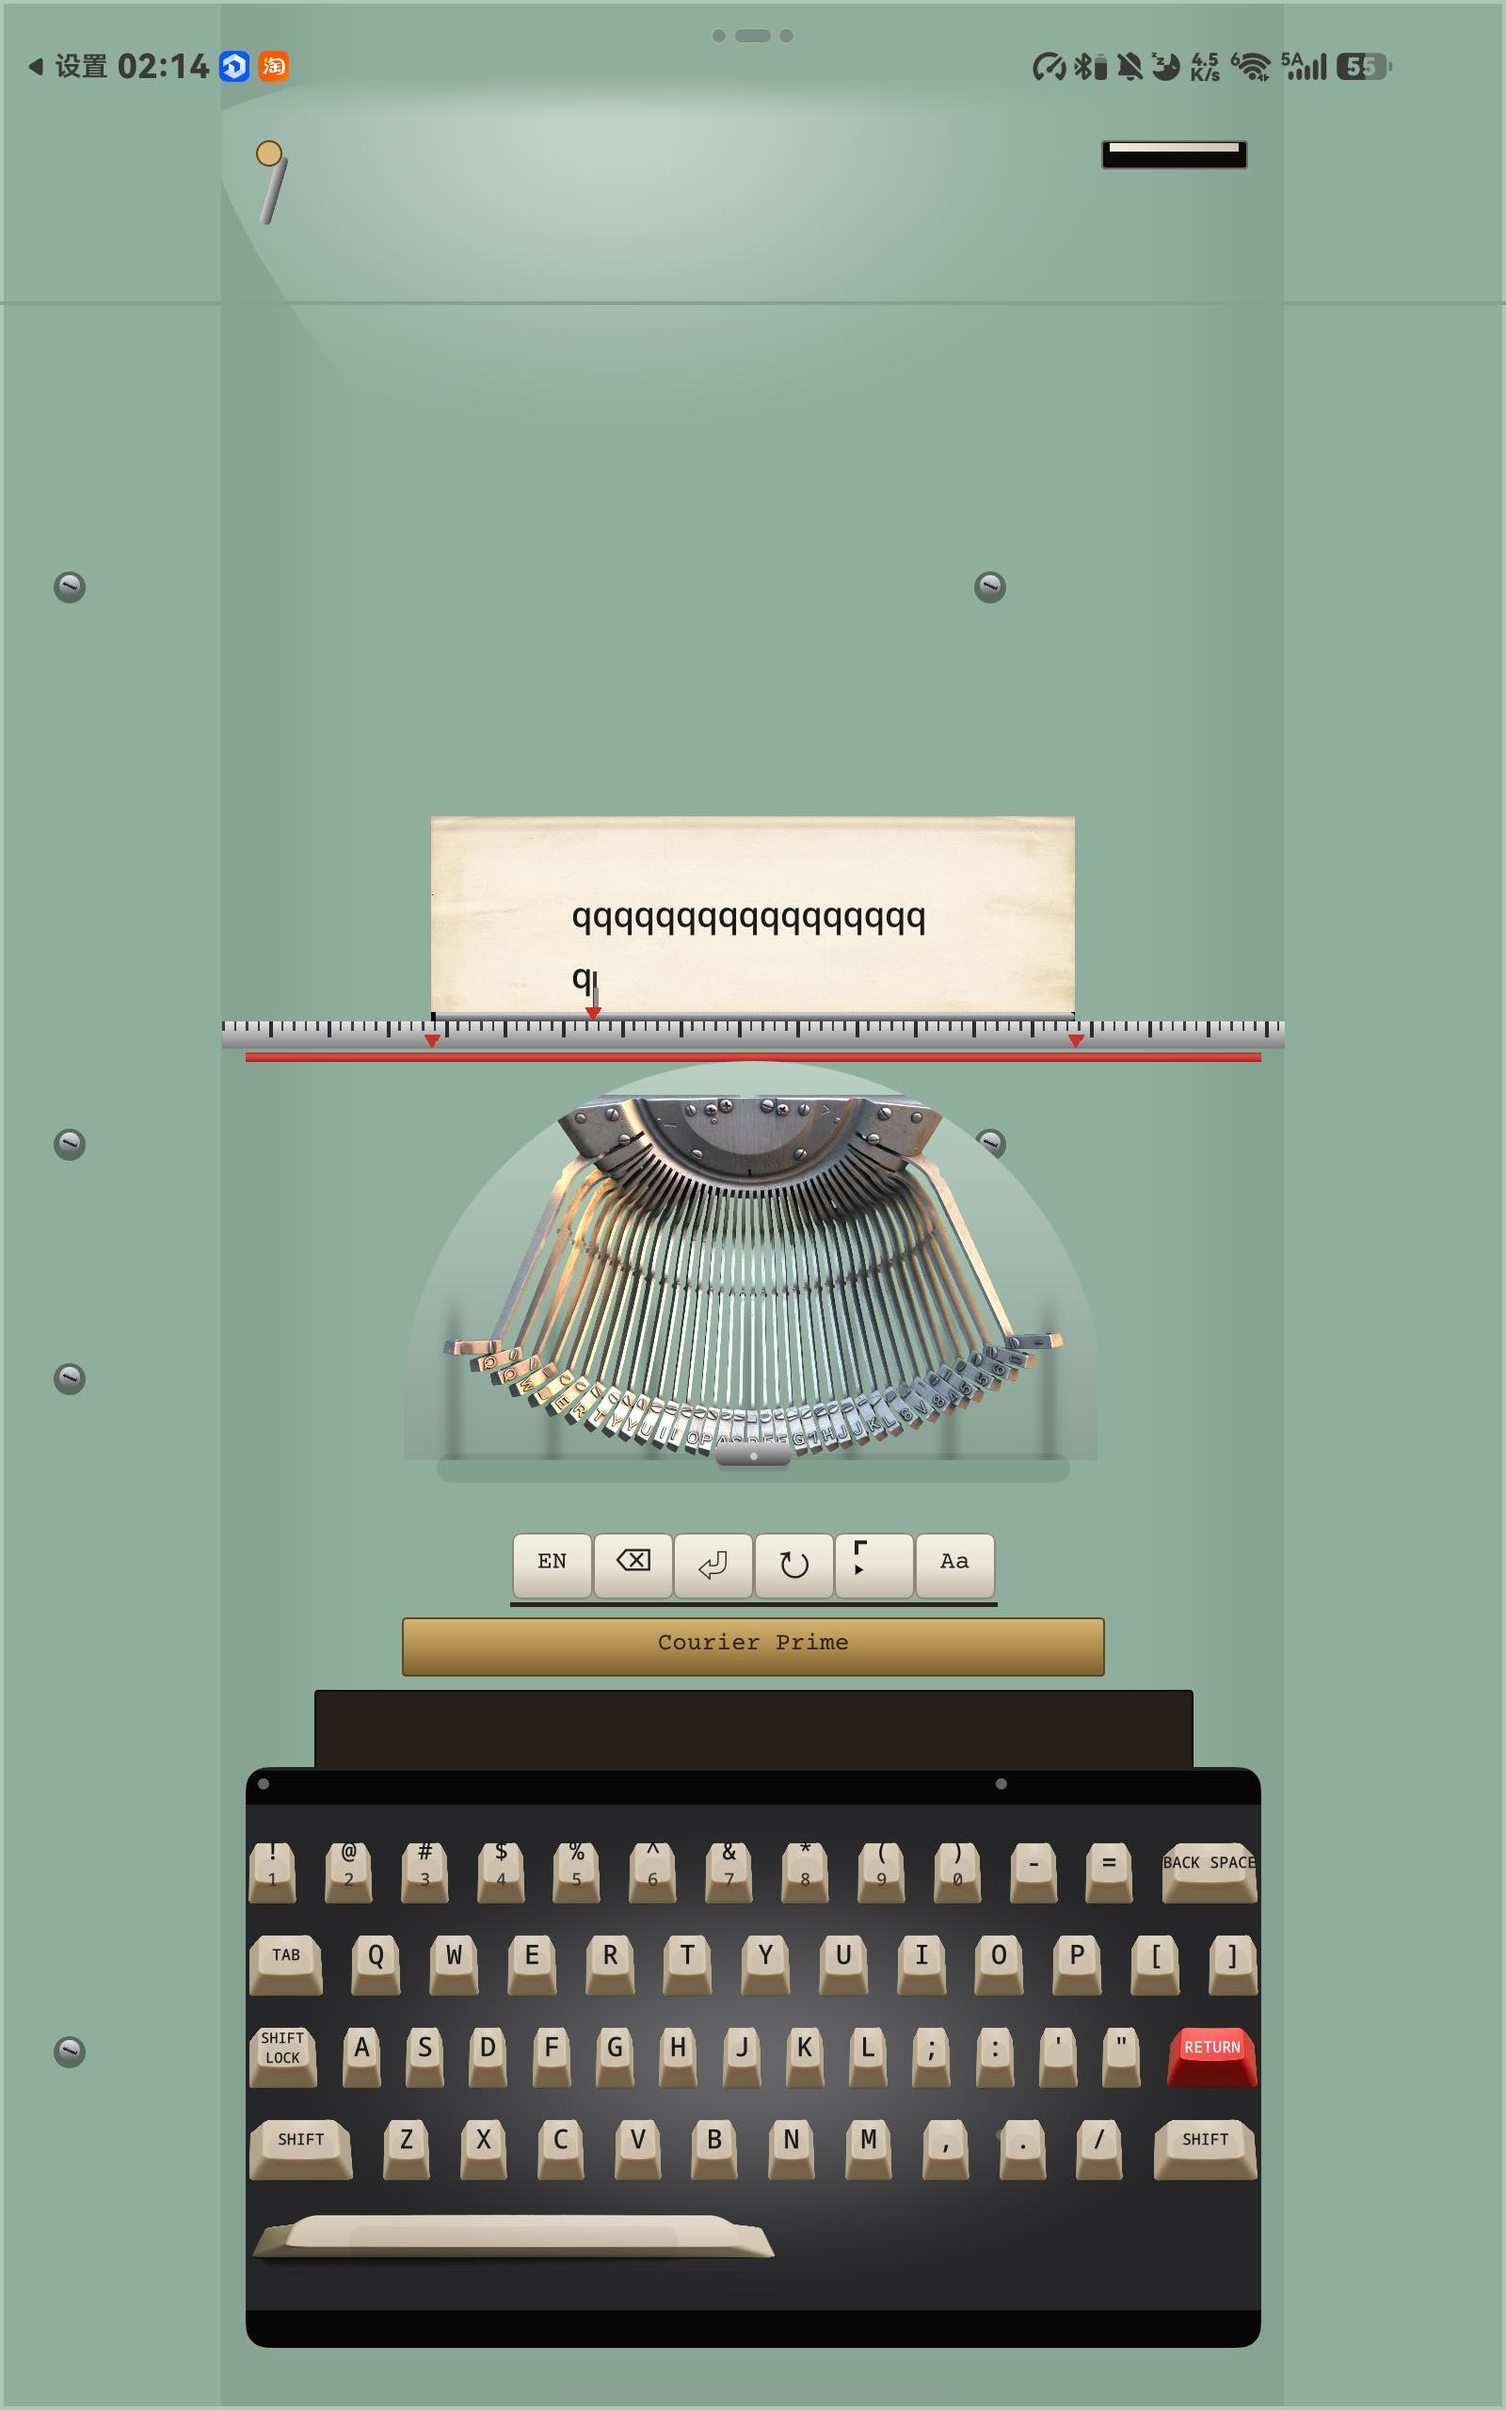
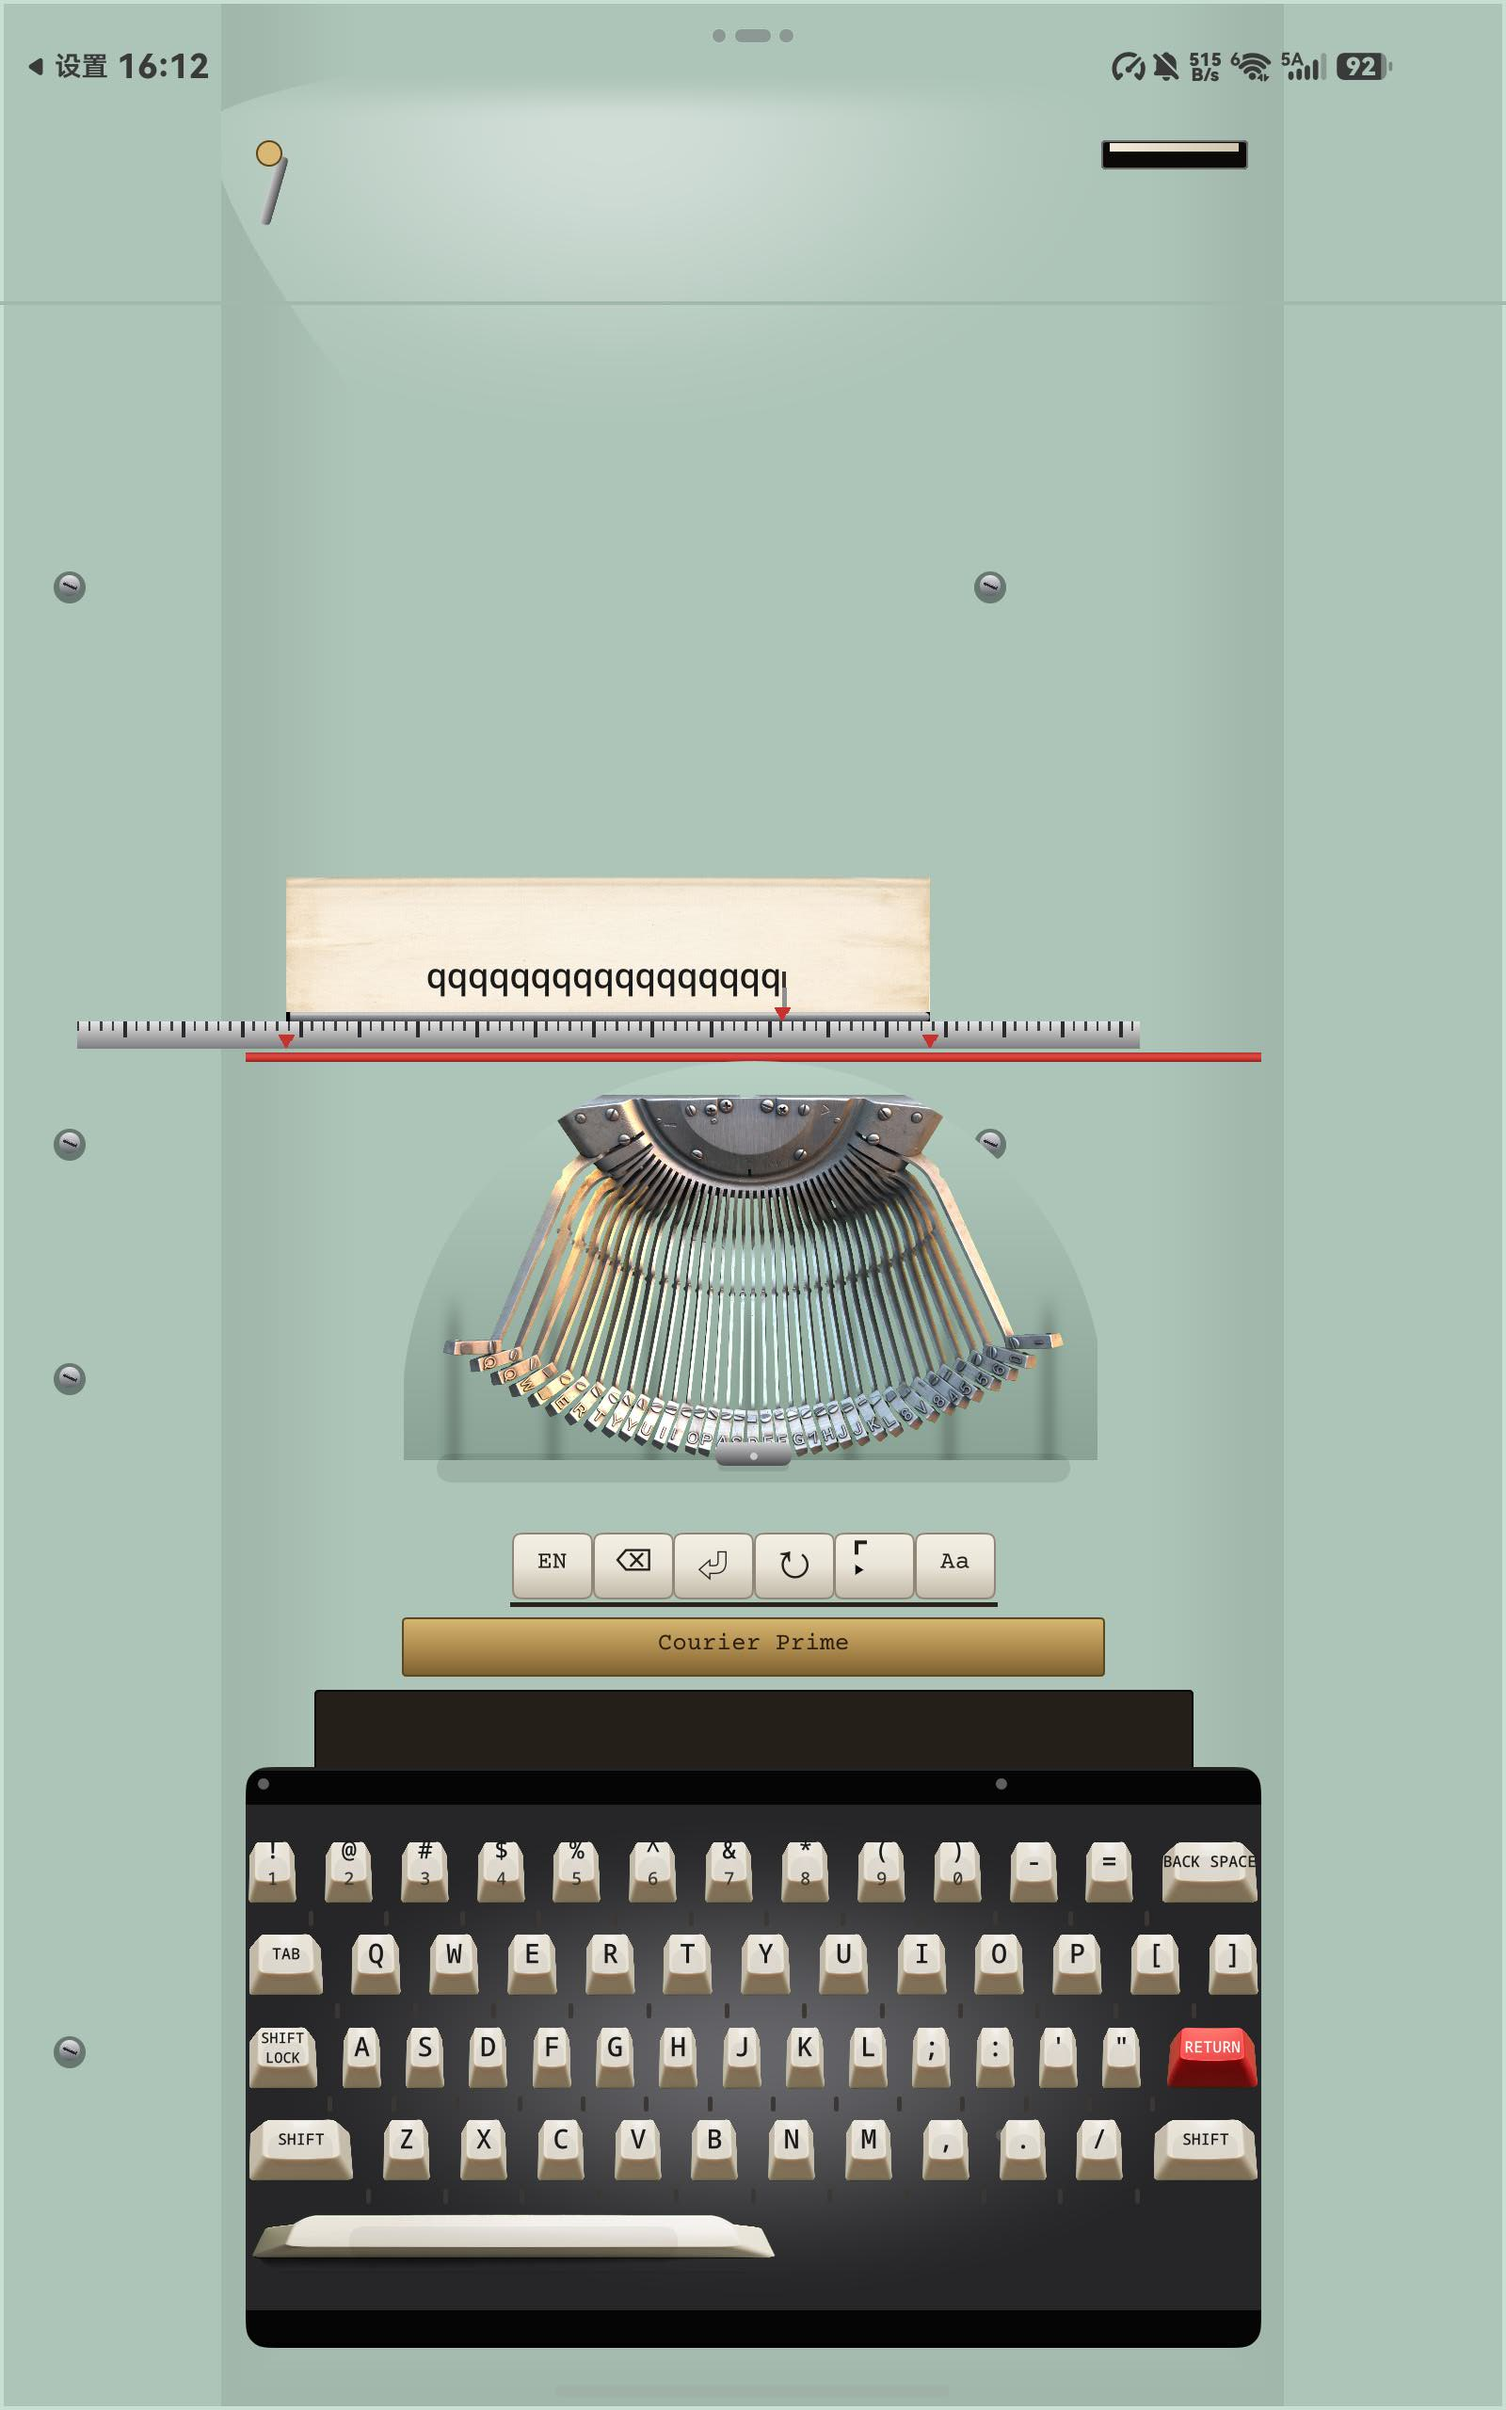
批64 阶段1 第二十三步：按当前构建重拍 2282/2284/2285
- 2282 满行：逐字 1.05s 点 Q 17 次 → 第一行 17 个 q，第 18 个触发自动换行（parts 92.0）
- 2284 N1：recalcOffset cursor=17 lineW=158.9 O=-65.0（与旧口径逐字一致），同帧纸左缘 458→303（差 155px≈65vp）
- 2285 N2：三容器右缘 1365/1174/1340 全 ≤1365
- 记账并修复工具坑：uitest click 16:12:56 后静默失效（事件未到应用）；hdc kill -r 会断 IP 设备，须 tconn 重连；
  by_text('BACK SPACE') 中心 (1285,1976) 是键盘 Column 垂直居中后的正确位置
- 自检 docs/evidence/p36/selfcheck.md 第二十三步

diff --git a/docs/evidence/p36/selfcheck.md b/docs/evidence/p36/selfcheck.md
@@ -2530,3 +2530,28 @@ F 项里打字主链路（落字/回车/退格/换纸/功能行）成立；**F-1
 
 **附带复原**：为隔离变量，把字体从 `SpecialElite`（2290 换字体测试的残留）轮转回 `CourierPrime (idx 0/17)`，
 设备字体状态已复原（与 2287 基线一致）。
+
+### 批 64 阶段 1 第二十三步：按当前构建重拍 2282／2284／2285
+
+- **2282 满行**：清到 1 行后逐字点 Q（间隔 1.05s）17 次 → 第一行满 **17 个 q**（截图 `2282_p64_full_line.png`）；
+  第 18 个 q 触发自动换行 → `parts paperTop=313.2 paperBox=92.0`（2 行），「满行 → 换行」链正常。
+- **2284 N1**：退格删掉第 2 行那个 q → 回到 1 行满行，`recalcOffset cursor=17 lineW=158.9 O=-65.0`
+  （与旧自检逐字一致）；同帧 `p35_paper (303,932)-(987,1085)`——纸左缘由 458 移到 303（差 155px≈65vp），
+  即「字车到 −65 就停、纸不出左缘」的实际表现（截图 `2284_p64_N1_full_line.png`）。
+- **2285 N2**：三容器 `p35_carriage (236,133)-(1365,1127)`、`p26_basket (427,1127)-(1174,1557)`、
+  `p33_key_well (261,1877)-(1340,2494)`，右缘 1365／1174／1340 全 ≤1365 ✔（截图 `2285_p64_N2_containers.png`）。
+- 三张图的字体均为 `CourierPrime (idx 0/17)`（取证前已把 2290 测试残留的 `SpecialElite` 复位）。
+
+**中途踩到的工具坑（已修复，写下来省下一轮时间）**
+1. **16:12:56 之后 `uitest uiInput click` 全部静默失效**：App 侧连 `newline skipped: busy` 这类日志都没有，
+   ⇒ 事件根本没到达应用层，**不是产品不响应**（这条要记牢，别再判成缺陷）。
+2. 处置：`hdc kill -r` 会**断开 IP 设备**——daemon 重启后 `-t 192.168.5.133:42355` 报
+   `[Fail]Not match target founded`，必须补 `hdc tconn 192.168.5.133:42355` 重连；`Connect OK` 后
+   `list targets` 恢复两台（`192.168.5.133:42355` 平板 + `2UCUT24724009680` 手机 USB）。
+3. 重连后点击立即恢复（一次字体条点击即出 `font cycle -> SpecialElite`）。
+4. 附带口径：`by_text('BACK SPACE')` 的 bbox 中心 **(1285,1976)** 是**正确**位置，不是"偏下"——
+   键盘 `Column` 在 259.9vp 的槽里**垂直居中**，5 行总高 207vp，所以行起点在 1939 而非槽顶 1877。
+   （这条纠正第二十二步里我"坐标偏下 58px"的临时判断。）
+
+**净结果**：2280／2281／2282／2283／2284／2285／2286／2287／2288／2289／2290 全部有当前构建或明确口径的证据；
+仍缺的是 2282／2283／2286 的**口径定稿**（六①②）与手机侧（用户暂缓）。
